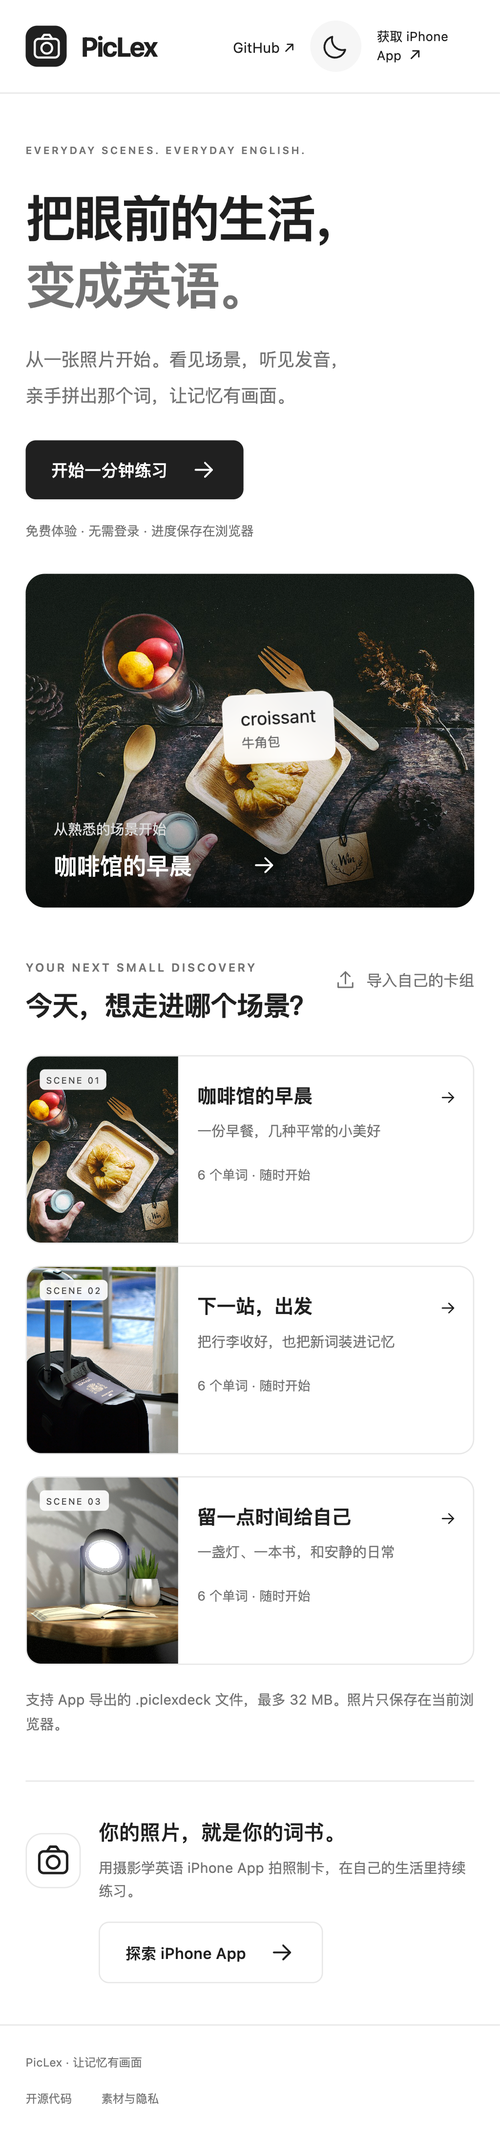
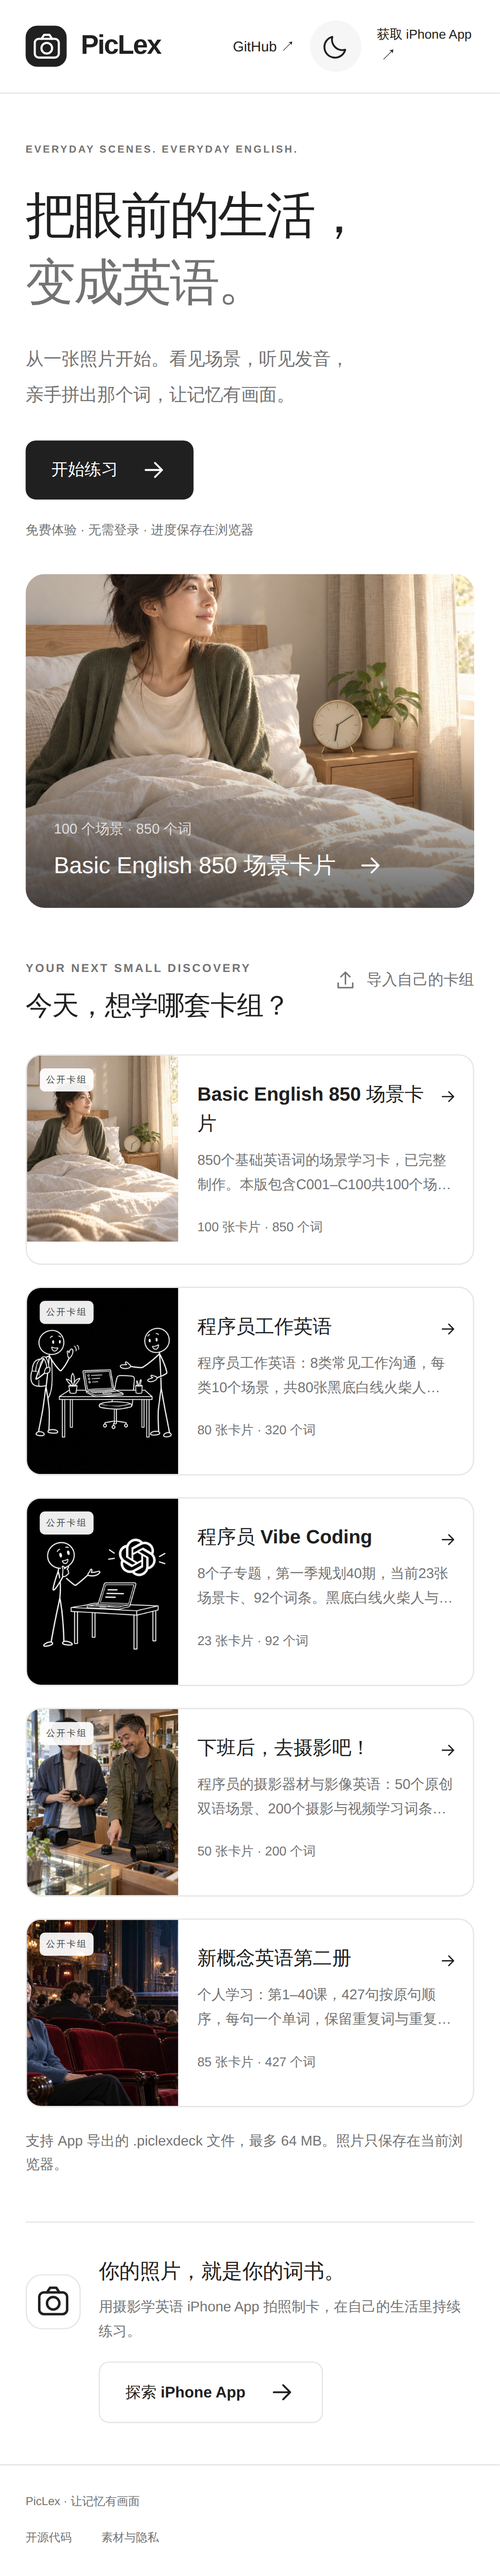
docs: record public catalog verification and prepared domain switch

diff --git a/memory/2026-11-03.md b/memory/2026-11-03.md
@@ -23,3 +23,6 @@
 - 在线练习改为小型JSON加按需图片，完整包只在点击下载时请求。每套词条数据约42–261KB；导入上限提高至64MB，解压上限仍96MB。首页改为真实卡组封面、标题和数量，临时三个示例迁至测试夹具。
 - 原镜像cb3e11f版本已由用户执行sudo激活，公网15个文件逐一大小和哈希通过，官方目录/健康接口可用，原有服务路由保留；随后本轮统一路径方案取代该根首页加/web/布局。已准备兼容旧布局的增量迁移，旧首页文件和回滚机制保留。
 - 已验证：五份公开包全部大小/哈希与338张图、1889词逐项解析通过；25项逻辑测试、8项部署测试通过；本机浏览器已确认公开首页、Basic850拼写和刷新恢复。统一路径的CI、服务器隔离验收与公网部署结果待补记。
+
+- 最终验收补记：ff07ef0的CI 41575901865通过25项逻辑、8项部署、8条桌面/手机宽度浏览器流程，并成功发布Pages。Pages公网index、公开目录和来源清单SHA256与服务器发布包逐一一致。服务器已上传并核验361文件的 `7b7cdd7618be-eccb96befd94`，旧路由兼容逻辑修正后，真实隔离Nginx和增量预览通过。统一路径的管理员切换命令已交给用户，尚未收到执行确认；实际current仍为cb3e11f旧布局，不把准备完成当作上线。
+- 清理补记：本轮Mac临时源码/下载缓存、CI截图下载副本、压缩包、冗余dist和预览进程已清理；服务器本轮staging公开包缓存与incoming压缩包精确删除，未动现有内容源。保留单份开发library缓存、待激活后比对用dist-mirror，以及服务器当前/待激活两份release和部署回滚脚本；待激活核验后再清理本机dist-mirror。

diff --git a/docs/verification.md b/docs/verification.md
@@ -11,3 +11,11 @@
 限制：浏览器移动视口不是 iPhone 触摸/键盘验收；未宣称做过手机安装或导入。系统发音音色与真实听感仍依赖浏览器环境。局域网入口迁移和 App 打包切换尚未执行。
 
 线上：首次 GitHub Actions 构建与部署均成功（run 41572088517，提交 9533691）。GitHub Pages 继承账户现有域名；HTTPS 实际站点为 https://zhaoolee.com/piclex-web/，github.io 地址会跳转。示例来源清单已改为同源直接地址，避免原生下载器拒绝重定向。
+
+
+## 2026-11-03：已有公开卡组与统一子路径
+
+- 当前生产内容为5套现有公开卡组，338张照片、1889个词条；原3个照片示例仅作为内部测试夹具。首页截图 `home.png` 与 `mobile.png` 已更新，原 `practice.png` 是最初测试夹具的交互记录。
+- CI [41575901865](https://github.com/zhaoolee/piclex-web/actions/runs/41575901865) 对 ff07ef0 执行25项逻辑测试、8项部署测试、8条桌面/手机宽度浏览器流程，全部通过并成功部署Pages。浏览器流程包含全轮练习、刷新恢复、坏包/重复导入、深浅切换、直接链接，以及公开卡组不下载完整包、按需读取图片。
+- 五份公开源包逐一验证大小和SHA256，所有照片与元数据由现有解析器校验；生成的词条/图片沿用原顺序。构建产物361个文件，服务器再验证全部哈希，隔离Nginx校验根入口302、新目录308/200、MIME、原始包哈希和访问限制通过。
+- Pages公网首页、公开目录和来源清单已按SHA256与本轮镜像产物比对一致。自有域名最终管理员激活与公网结果见当日memory。

diff --git a/deploy/README.md b/deploy/README.md
@@ -39,3 +39,5 @@ sudo python3 -B /home/hermes/piclex-web/deploy/activate.py --release /home/herme
 ## 本轮状态
 
 2026-11-03：部署工具与镜像构建完成；8 项部署测试和本机浏览器首页/进入练习/拼对判定通过。服务器上传、隔离验收和正式激活结果记录于 `memory/2026-11-03.md`。
+
+最新CI已通过并发布Pages；自有域名新路径的361文件发布包已上传、隔离验收通过，当前等待用户执行已提供的管理员切换命令。没有等待定时任务，也没有配置后台自动发布。
